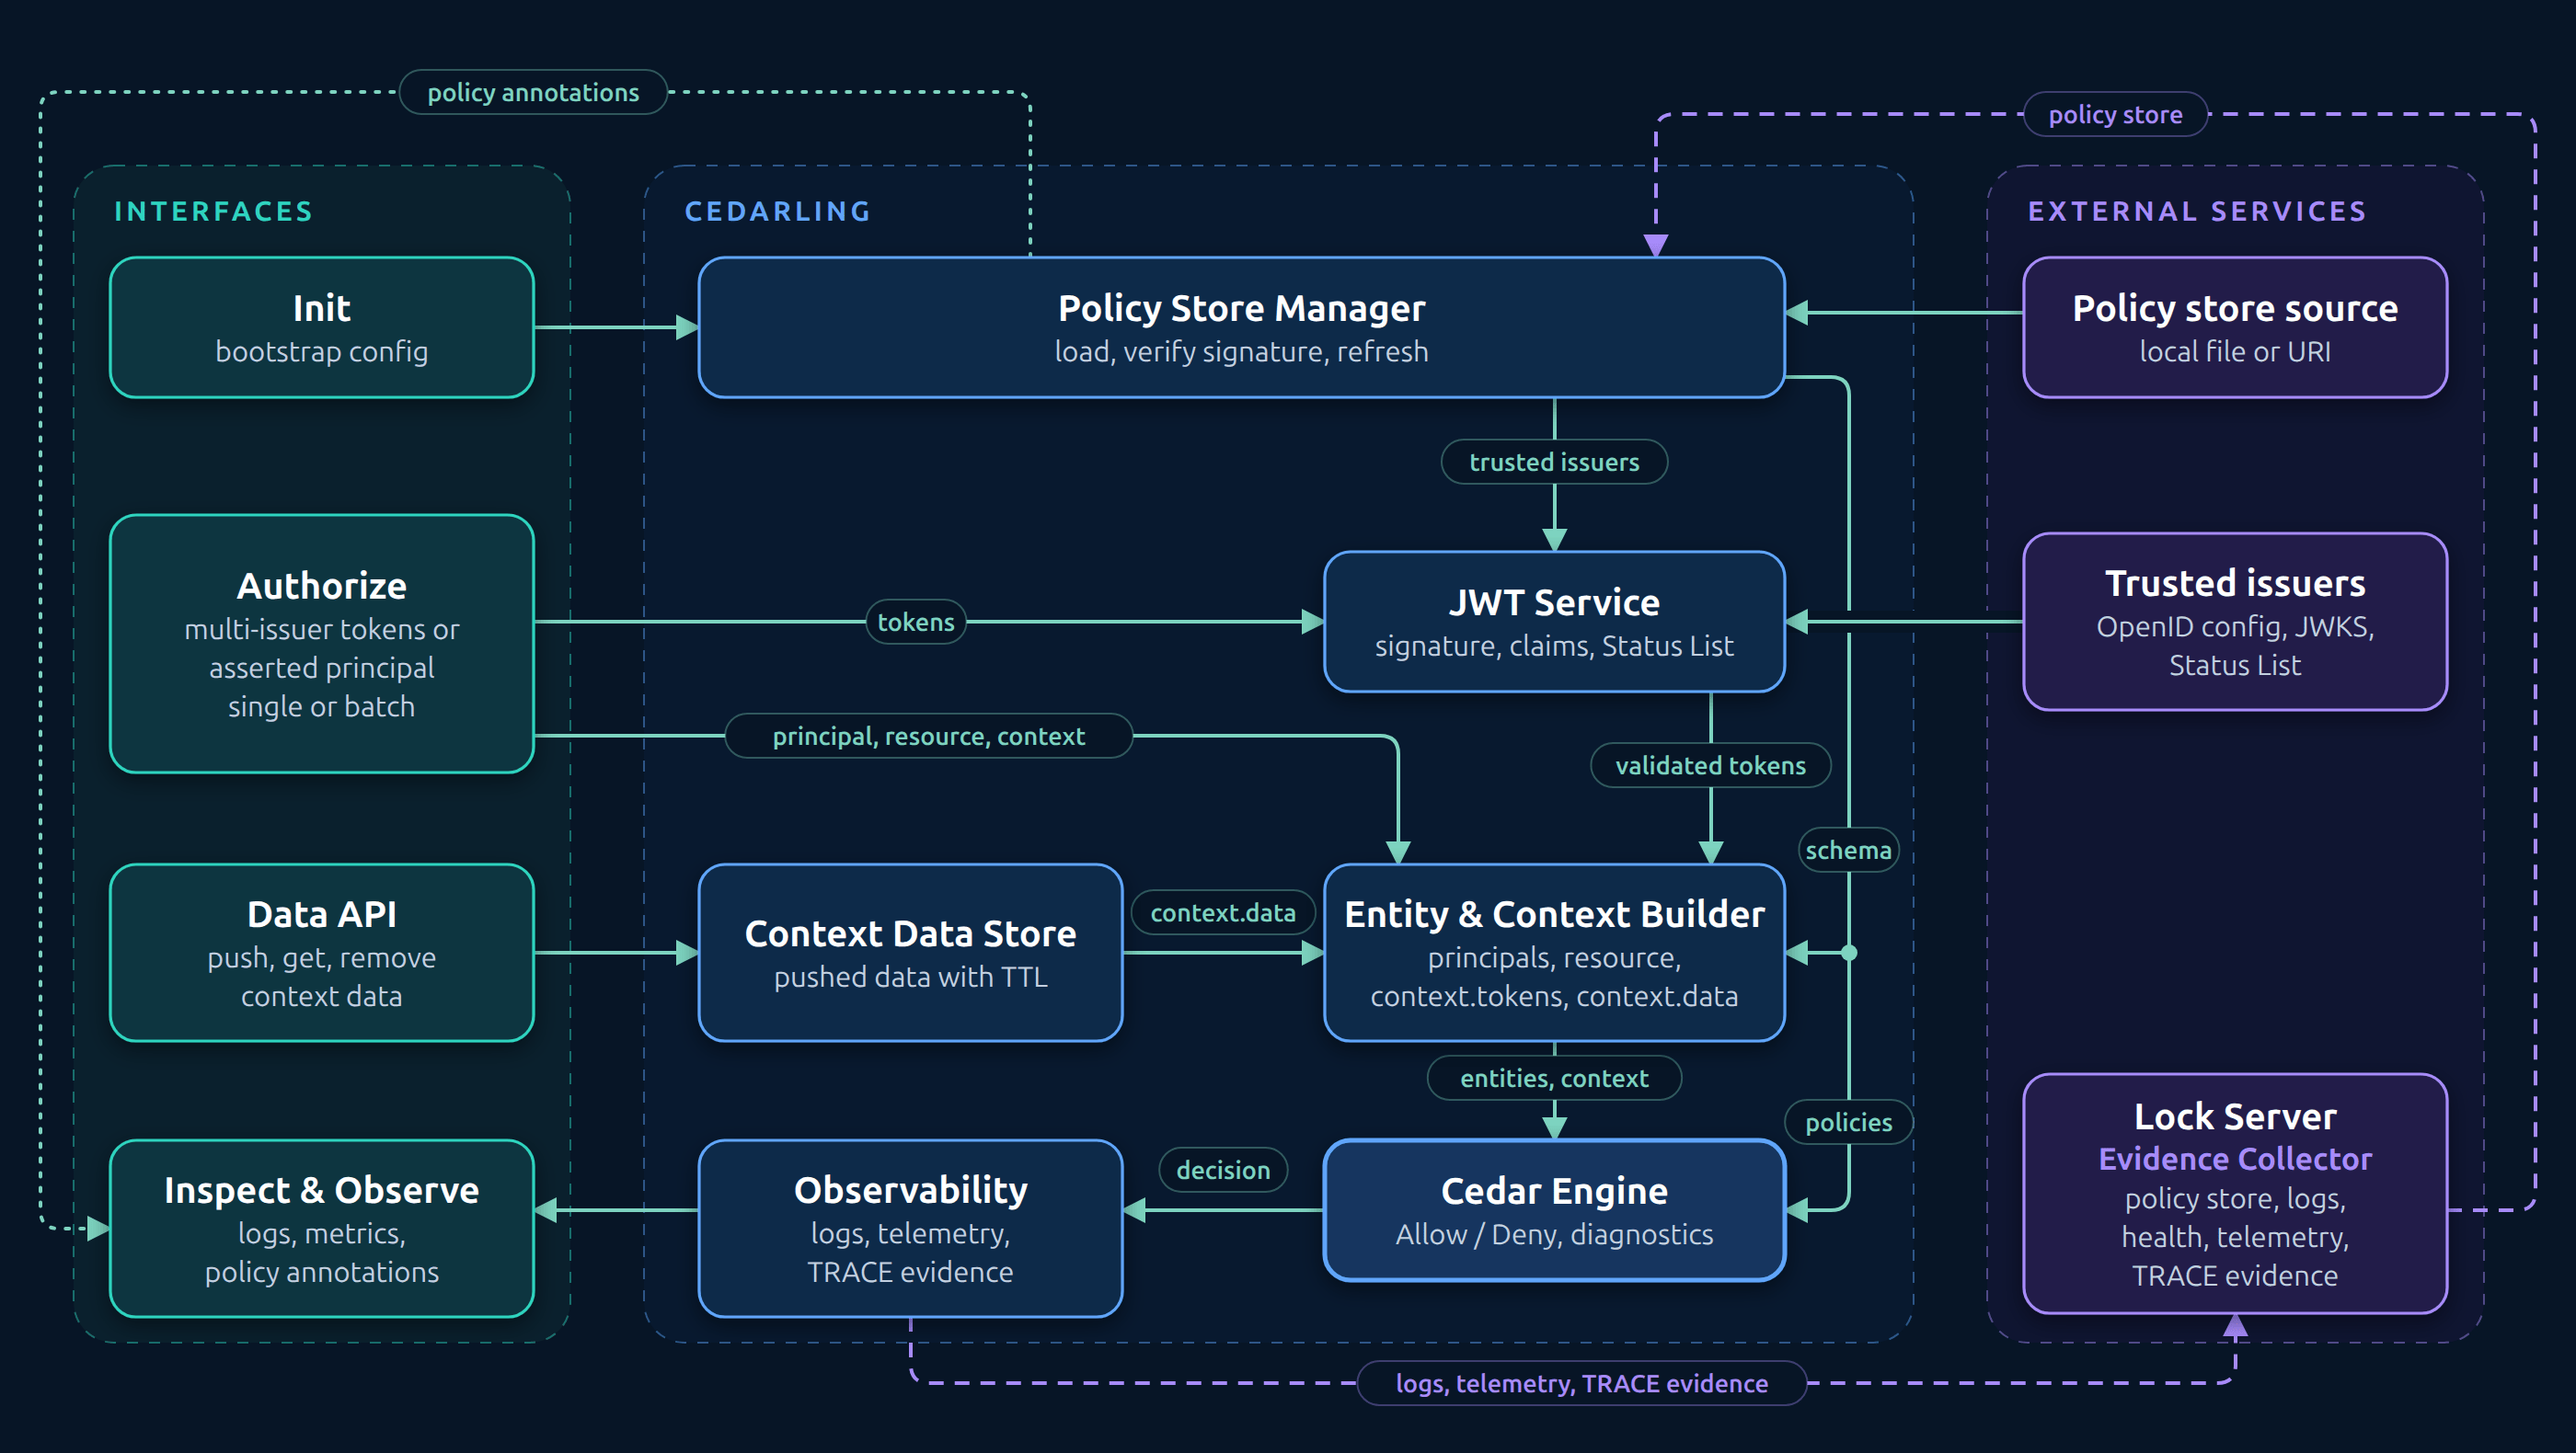
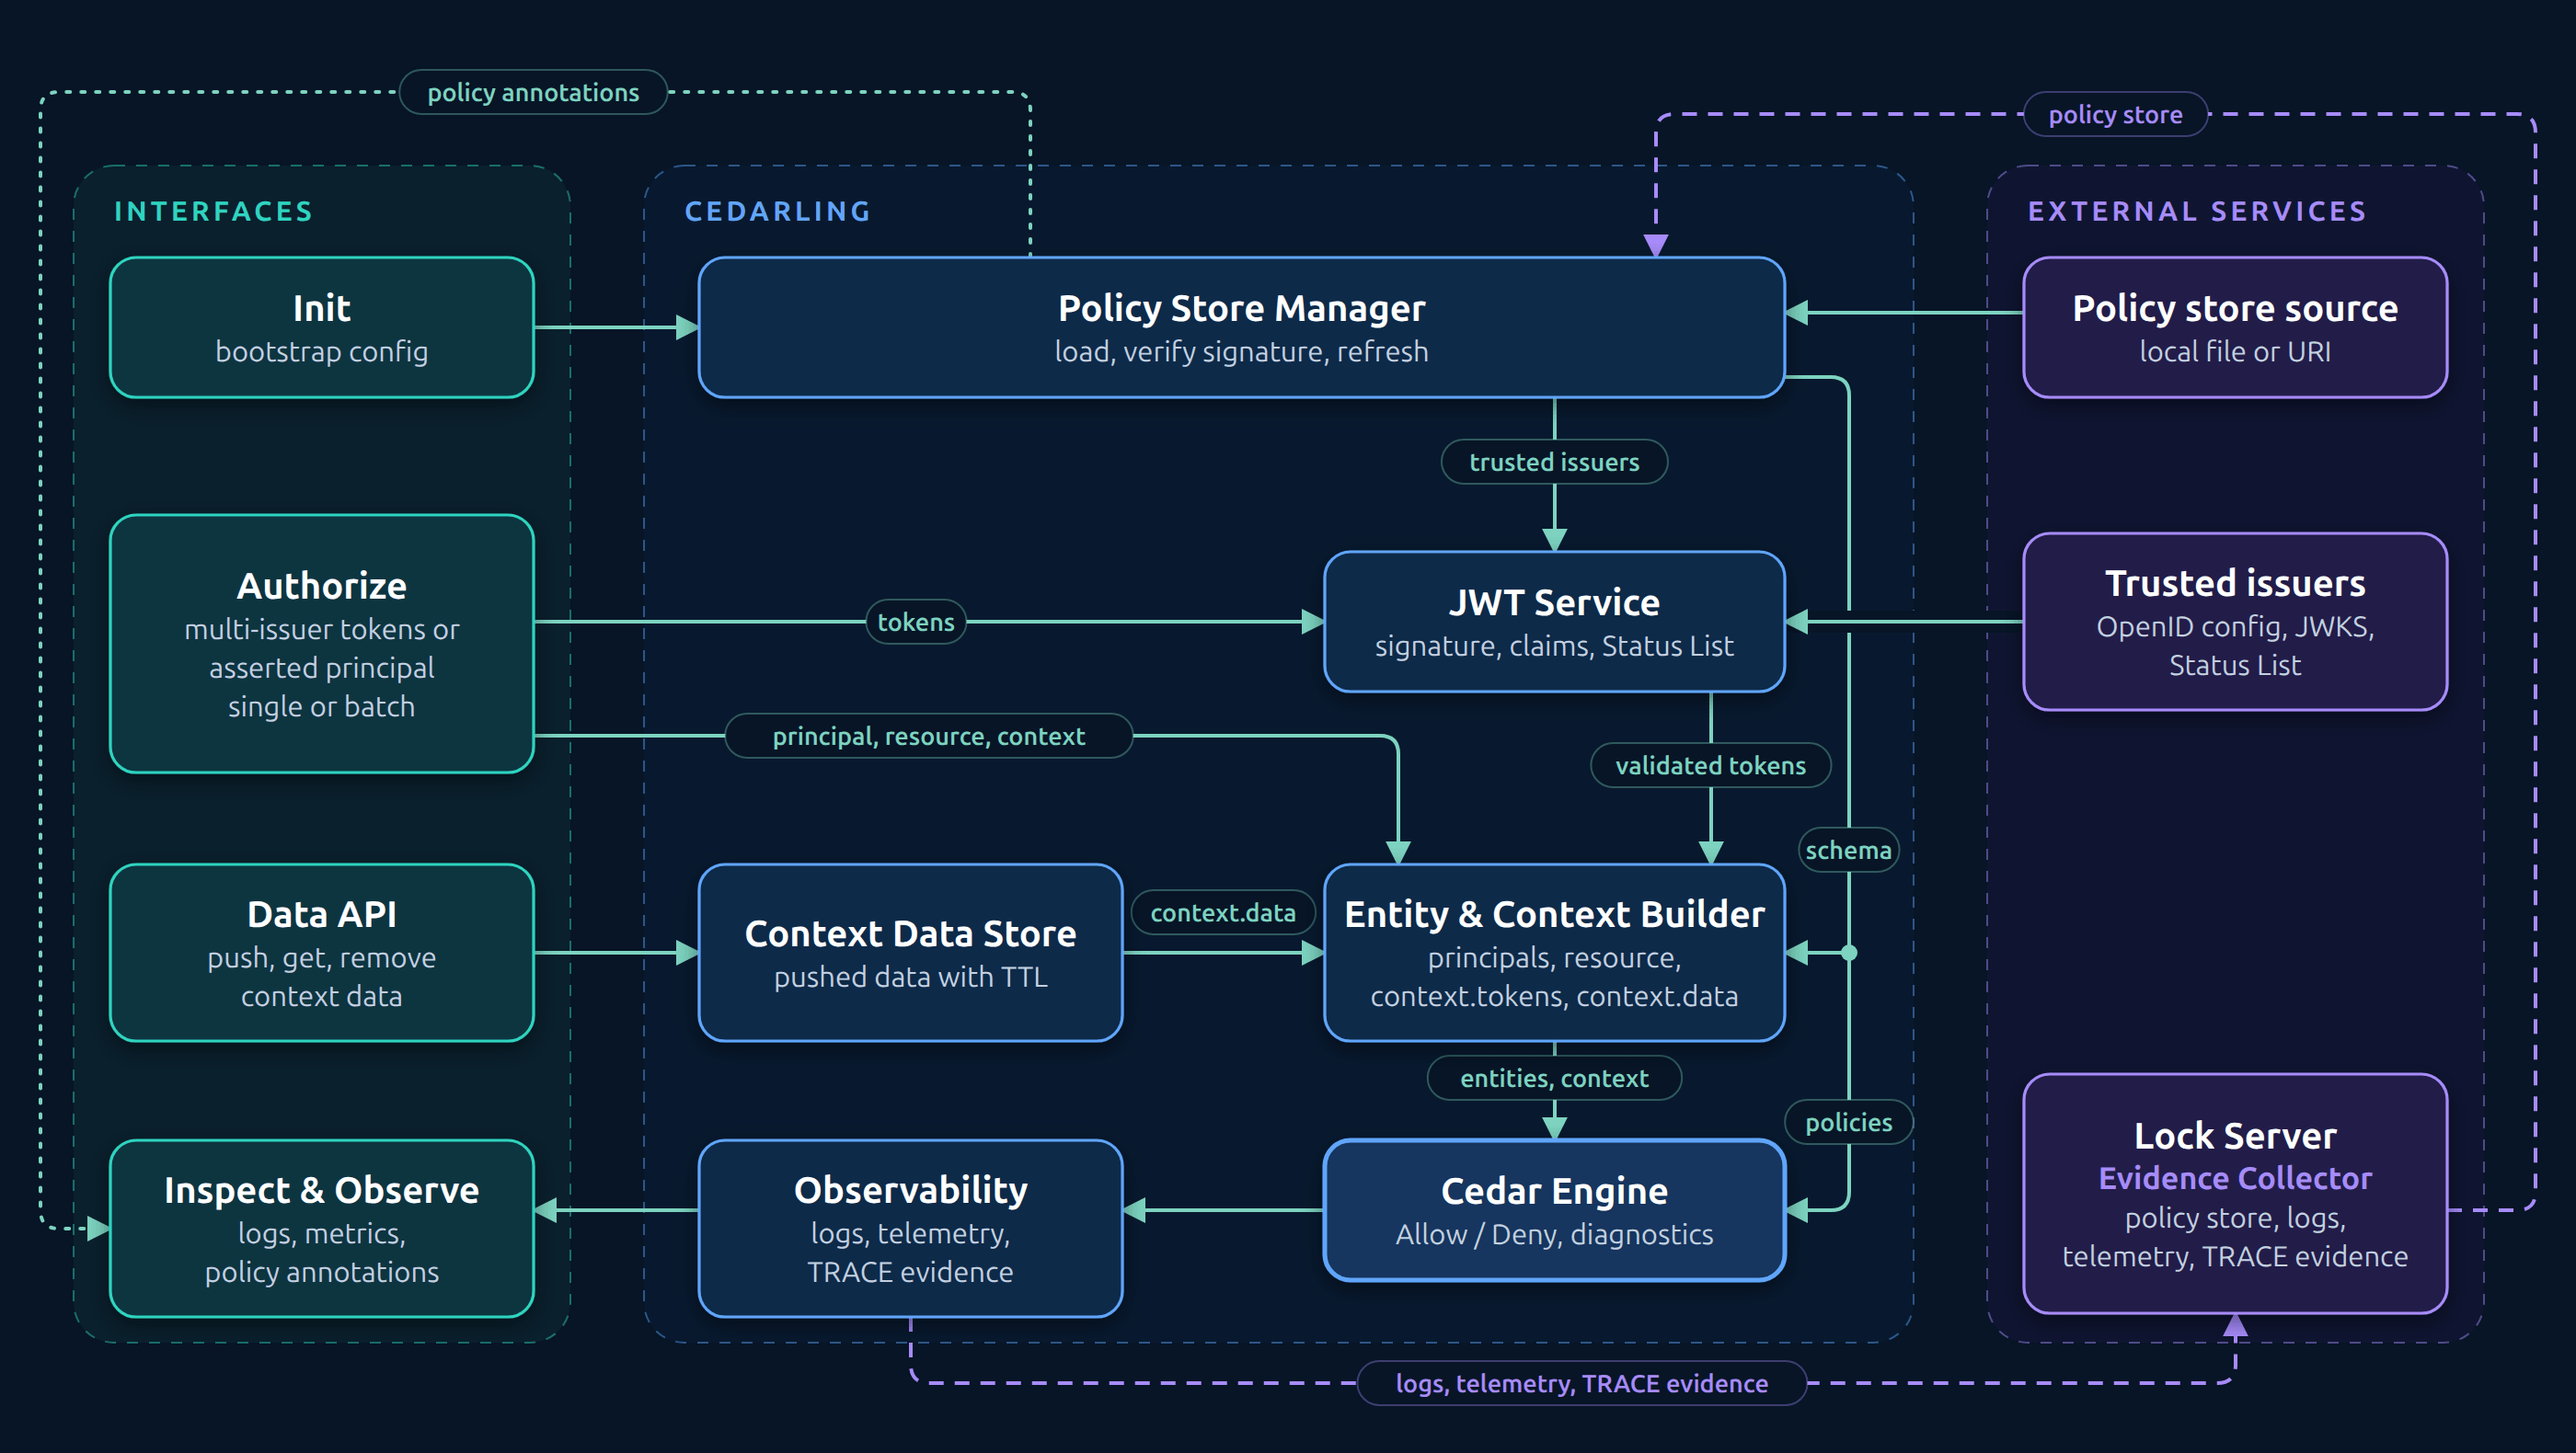
docs(jans-cedarling): split Lock Server flows by direction in diagrams

Changed region(s): [[0.8079, 0.7443, 0.9321, 0.8994], [0.4661, 0.7753, 0.4971, 0.8373]]

diff --git a/jans-cedarling/scripts/diagrams/deployment.py b/jans-cedarling/scripts/diagrams/deployment.py
@@ -50,11 +50,17 @@ DIAGRAM = {
         {"points": [(1080, 205), (1080, 230)]},
         {"points": [(1186, 205), (1186, 230)]},
         {"points": [(1292, 205), (1292, 230)]},
-        {"points": [(210, 350), (210, 540), (500, 540)],
-         "label": "logs, telemetry", "at": (355, 540), "color": "violet", "style": "dashed", "both": True},
-        {"points": [(590, 350), (590, 480)],
-         "label": "logs, telemetry, TRACE evidence", "at": (590, 415), "color": "violet", "style": "dashed", "both": True},
-        {"points": [(1080, 430), (1080, 540), (900, 540)],
-         "label": "logs, telemetry, TRACE evidence", "at": (1080, 485), "color": "violet", "style": "dashed", "both": True},
+        {"points": [(500, 560), (190, 560), (190, 350)],
+         "label": "policy store", "at": (345, 560), "color": "violet", "style": "dashed"},
+        {"points": [(230, 350), (230, 520), (500, 520)],
+         "label": "logs, telemetry", "at": (365, 520), "color": "violet", "style": "dashed"},
+        {"points": [(550, 480), (550, 450), (470, 450), (470, 350)],
+         "label": "policy store", "at": (470, 400), "color": "violet", "style": "dashed"},
+        {"points": [(670, 350), (670, 480)],
+         "label": "logs, telemetry, TRACE evidence", "at": (670, 392), "color": "violet", "style": "dashed"},
+        {"points": [(900, 520), (1010, 520), (1010, 430)],
+         "label": "policy store", "at": (1010, 475), "color": "violet", "style": "dashed"},
+        {"points": [(1200, 430), (1200, 560), (900, 560)],
+         "label": "logs, telemetry, TRACE evidence", "at": (1200, 500), "color": "violet", "style": "dashed"},
     ],
 }

diff --git a/jans-cedarling/scripts/diagrams/components.py b/jans-cedarling/scripts/diagrams/components.py
@@ -39,7 +39,7 @@ DIAGRAM = {
                     "title": "Trusted issuers", "desc": ["OpenID config, JWKS,", "Status List"]},
         "lock": {"color": "violet", "box": (1100, 584, 230, 130),
                  "title": "Lock Server", "role": "Evidence Collector",
-                 "desc": ["policy store, logs,", "health, telemetry,", "TRACE evidence"]},
+                 "desc": ["policy store, logs,", "telemetry, TRACE evidence"]},
     },
     # Edges listed later are drawn on top; the halo on the issuers edge cuts a
     # gap into the policies line it crosses.
@@ -59,7 +59,7 @@ DIAGRAM = {
         {"points": [(290, 518), (380, 518)]},
         {"points": [(610, 518), (720, 518)], "label": "context.data", "at": (665, 496)},
         {"points": [(845, 566), (845, 620)], "label": "entities, context", "at": (845, 593)},
-        {"points": [(720, 658), (610, 658)], "label": "decision", "at": (665, 636)},
+        {"points": [(720, 658), (610, 658)]},
         {"points": [(380, 658), (290, 658)]},
         {"points": [(495, 716), (495, 752), (1215, 752), (1215, 714)],
          "label": "logs, telemetry, TRACE evidence", "at": (860, 752),
